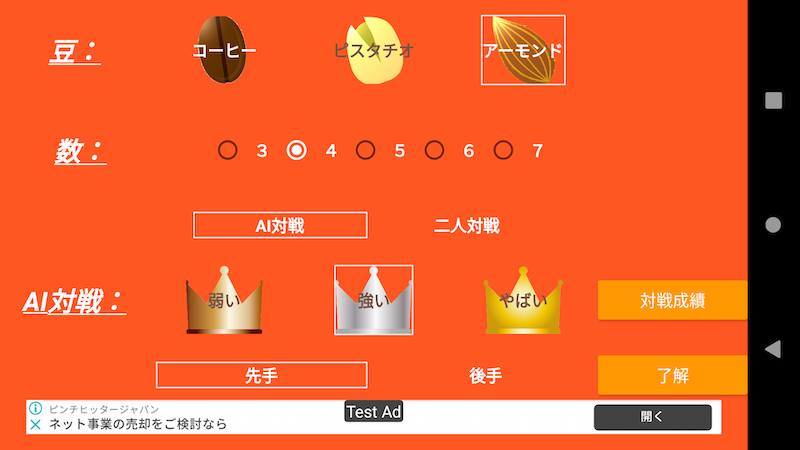
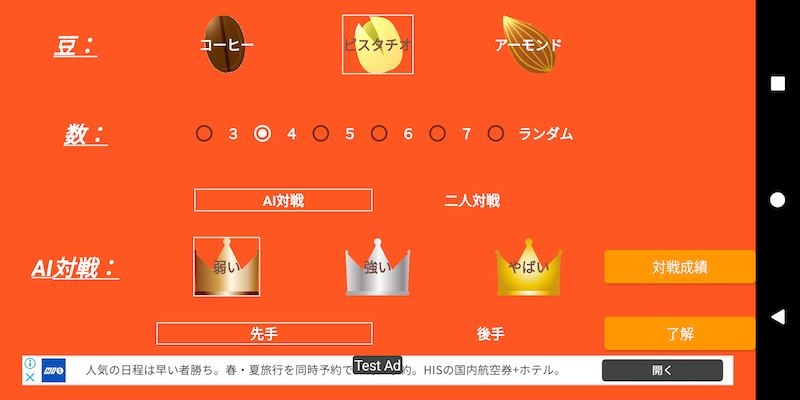
refactor: mancalanuts.md追記

diff --git a/project/2020-08-10/mancalanuts.html b/project/2020-08-10/mancalanuts.html
@@ -236,7 +236,8 @@ MathJax.Hub.Config({
 
 <h3 id="マンカラ-ナッツについて">「マンカラ ナッツ」について</h3>
 <p>　対人戦の途中でＡＩ対戦に切り替えたり、ＡＩ対戦の途中で対人戦に切り替えたりして、マンカラの特定の局面での最善手の研究にも使えるように配慮したマンカラアプリです。<br>
-　Version1.1.6で豆の数を３個〜７個から選べるようにしました。また、対戦成績を先手番・後手番別に保存するようにしました。豆の数によって先手有利・後手有利の違いがあります。</p>
+　Version1.1.6で豆の数を３個〜７個から選べるようにしました。また、対戦成績を先手番・後手番別に保存するようにしました。豆の数によって先手有利・後手有利の違いがあります。<br>
+　勝ちパターンを覚えてしまうとゲームを楽しめないので、Version1.1.9から<strong>ランダム配置機能</strong>を追加しました。</p>
 
 <h3 id="ルール">ルール</h3>
 <p>　数あるマンカラのルールの中で、<code>カラハ（Karah）</code>と呼ばれるルールを採用しています。<br>
@@ -257,10 +258,11 @@ MathJax.Hub.Config({
   <li>待った機能</li>
   <li>豆選択（コーヒー、ピスタチオ、アーモンド）機能</li>
   <li>豆の数選択機能（３個〜７個）</li>
-  <li>先手後手別、対戦成績保存機能（ゲーム途中で設定を変更した場合は対戦成績には記録されません）</li>
+  <li>先手後手別、対戦成績保存機能（ゲーム途中で設定を変更しり、「待った」した場合は対戦成績には記録されません）</li>
   <li>多言語対応、日<code>ja</code>, 英<code>en</code>, 越<code>vi</code>
 </li>
   <li>AI対戦時の形勢判断Emoji表示機能</li>
+  <li>ランダム配置機能</li>
 </ul>
 
 <h3 id="ａｉ対戦">ＡＩ対戦</h3>
@@ -362,6 +364,7 @@ MathJax.Hub.Config({
   <li>同じパターンの指し手を避けるため、ＡＩのレベル<code>弱い(Easy)</code>と<code>強い(Hard)</code>では、初手はランダムに選ぶようにしています。<code>やばい(Expert)</code>はガチで指し手を決めます<sup id="fnref:2"><a href="#fn:2" class="footnote">2</a></sup>。</li>
   <li>全てのＡＩのレベルで、同じ評価値の場合はランダムに指し手を選択するようにしていますので、同じ局面で常に同じ指し手を選ぶとは限りません<sup id="fnref:3"><a href="#fn:3" class="footnote">3</a></sup>。</li>
   <li>ＡＩ対戦時に<code>先手</code>か<code>後手</code>かを選べます。この設定は<code>二人対戦(Two Players)</code>時には意味はありません。</li>
+  <li>対戦を重ねると同じパターンで決着し、ゲームを楽しめなくなるのを防ぐため<strong>ランダム配置機能</strong>追加しました（Version1.1.9以降）。設定画面で「ランダム」を選ぶと豆の初期配置が先手・後手同じでランダムな配置になります（豆の合計数は<code>４</code>を選んだ場合と同じ４×６×２＝４８個です）。</li>
 </ul>
 
 <h3 id="ゲーム成績画面">ゲーム成績画面</h3>
